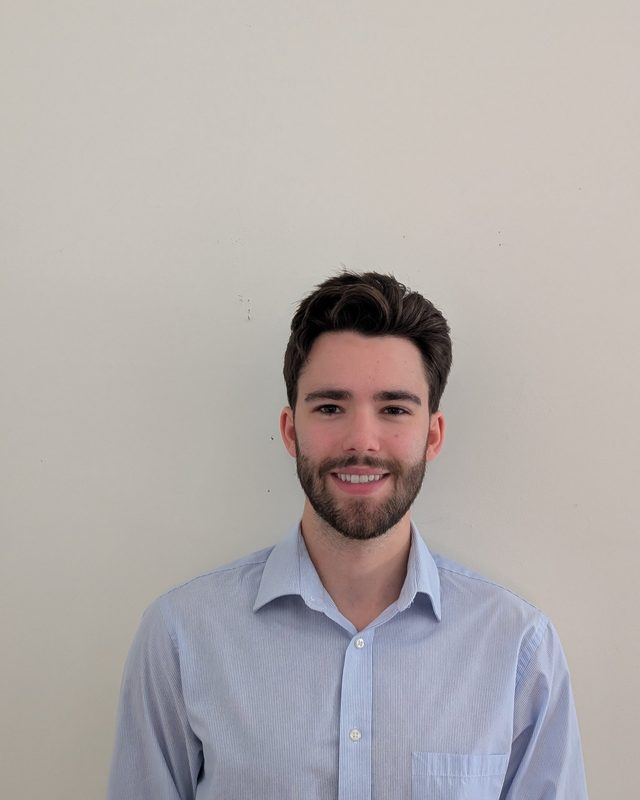
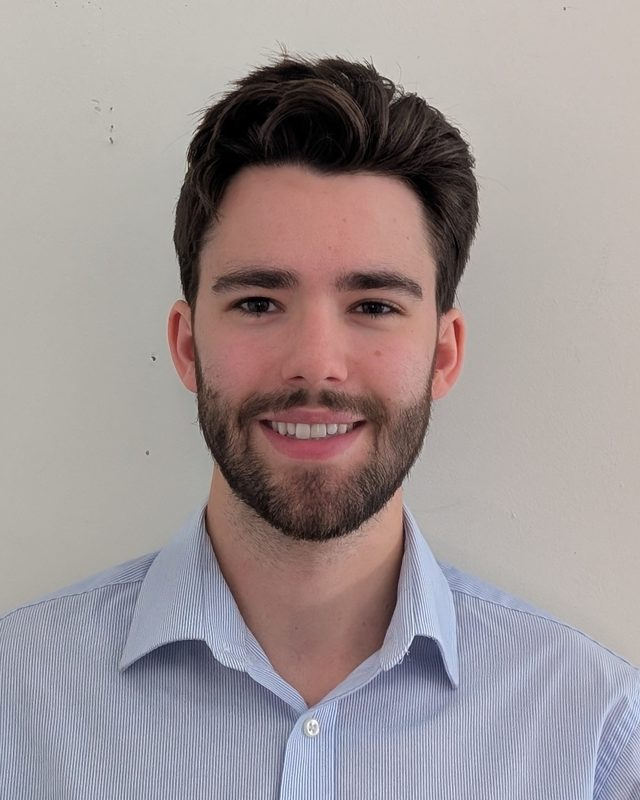
Add files via upload

diff --git a/alumni.html b/alumni.html
@@ -88,16 +88,17 @@
     <h2 class="group-label">Graduate students</h2>
     <ul class="alumni">
     <li class="alum">
-      <img src="img/alumni/leonie-van-de-wouw.jpg" alt="Portrait of Leonie Van de Wouw" width="88" height="88" loading="lazy">
-      <div>
-        <h3>Leonie Van de Wouw, PhD</h3>
-        <p class="with-us">PhD Chemistry</p>
-      </div>
-    </li>
-    <li class="alum">
       <img src="img/alumni/ricky-tran.jpg" alt="Portrait of Ricky Tran" width="88" height="88" loading="lazy">
       <div>
         <h3>Ricky Tran, PhD</h3>
+        <p class="with-us">PhD Chemistry</p>
+        <p class="now"><span>Now:</span> Postdoctoral Fellow, University of Victoria</p>
+      </div>
+    </li>
+    <li class="alum">
+      <img src="img/alumni/leonie-van-de-wouw.jpg" alt="Portrait of Leonie Van de Wouw" width="88" height="88" loading="lazy">
+      <div>
+        <h3>Leonie Van de Wouw, PhD</h3>
         <p class="with-us">PhD Chemistry</p>
       </div>
     </li>
@@ -165,10 +166,17 @@
     <h2 class="group-label">Undergraduate researchers</h2>
     <ul class="alumni">
     <li class="alum">
+      <img src="img/alumni/jagveer-kalkat.jpg" alt="Portrait of Jagveer Kalkat" width="88" height="88" loading="lazy">
+      <div>
+        <h3>Jagveer Kalkat</h3>
+        <p class="with-us">Undergraduate Honours Student (CHEM 502)</p>
+      </div>
+    </li>
+    <li class="alum">
       <img src="img/alumni/tanjot-saini.jpg" alt="Portrait of Tanjot Saini" width="88" height="88" loading="lazy">
       <div>
         <h3>Tanjot Saini</h3>
-        <p class="with-us">Undergraduate Research Student (CHEM 502)</p>
+        <p class="with-us">Undergraduate Honours Student (CHEM 502)</p>
       </div>
     </li>
     <li class="alum">
@@ -176,6 +184,20 @@
       <div>
         <h3>Hana Pham</h3>
         <p class="with-us">Undergraduate Research Student (CHEM 402)</p>
+      </div>
+    </li>
+    <li class="alum">
+      <img src="img/alumni/nirmayi-shravge.jpg" alt="Portrait of Nirmayi Shravge" width="88" height="88" loading="lazy">
+      <div>
+        <h3>Nirmayi Shravge</h3>
+        <p class="with-us">Undergraduate Honours Student (CHEM 502)</p>
+      </div>
+    </li>
+    <li class="alum">
+      <img src="img/alumni/eric-guzman.jpg" alt="Portrait of Eric Guzman" width="88" height="88" loading="lazy">
+      <div>
+        <h3>Eric Guzman</h3>
+        <p class="with-us">Undergraduate Student Intern</p>
       </div>
     </li>
     <li class="alum">
@@ -196,7 +218,7 @@
       <div class="mono" aria-hidden="true">XT</div>
       <div>
         <h3>Xavier Tang</h3>
-        <p class="with-us">Undergraduate Honours Student, 2018–2020</p>
+        <p class="with-us">Undergraduate Honours Student (CHEM 502), 2018–2020</p>
       </div>
     </li>
     <li class="alum">
@@ -257,7 +279,7 @@
       <div class="mono" aria-hidden="true">BB</div>
       <div>
         <h3>Beth Barretto</h3>
-        <p class="with-us">Undergraduate Honours Student, 2014</p>
+        <p class="with-us">Undergraduate Honours Student (CHEM 502), 2014</p>
         <p class="now"><span>Now:</span> Graduate school, Molecular Biology, University of Calgary (Grewal)</p>
       </div>
     </li>
@@ -265,7 +287,7 @@
       <div class="mono" aria-hidden="true">LB</div>
       <div>
         <h3>Laura Brothers</h3>
-        <p class="with-us">Undergraduate Honours Student, 2012</p>
+        <p class="with-us">Undergraduate Honours Student (CHEM 502), 2012</p>
         <p class="now"><span>Now:</span> Graduate school, Chemistry, McGill University (Bohle)</p>
       </div>
     </li>

diff --git a/our-team.html b/our-team.html
@@ -81,23 +81,25 @@
       <img src="img/team/connor-brandow.jpg" alt="Portrait of Connor Brandow" width="640" height="800" loading="lazy">
       <h4>Connor Brandow</h4>
       <p class="role">PhD Candidate</p>
-      <p class="detail">BSc, Saint Francis Xavier University, Antigonish, NS</p>
+      <p class="detail">BSc Honours Chemistry, St. Francis Xavier University</p>
     </article>
     <article class="person">
       <img src="img/team/joy-idowu.jpg" alt="Portrait of Joy Idowu" width="640" height="800" loading="lazy">
       <h4>Joy Idowu</h4>
       <p class="role">PhD Student</p>
-      <p class="detail">BSc, University of Calgary</p>
+      <p class="detail">BSc Honours Chemistry, University of Calgary</p>
     </article>
     <article class="person">
       <img src="img/team/sydney-palmer.jpg" alt="Portrait of Sydney Palmer" width="640" height="800" loading="lazy">
       <h4>Sydney Palmer</h4>
       <p class="role">MSc Student</p>
+      <p class="detail">BSc Honours Chemistry, St. Francis Xavier University</p>
     </article>
     <article class="person">
       <img src="img/team/massi-mirella.jpg" alt="Portrait of Massi Mirella" width="640" height="800" loading="lazy">
       <h4>Massi Mirella</h4>
       <p class="role">MSc Student</p>
+      <p class="detail">BSc Honours Chemistry, Carleton University</p>
     </article>
       </div>
     </div>
@@ -107,17 +109,12 @@
     <article class="person">
       <img src="img/team/nadah-hussein.jpg" alt="Portrait of Nadah Hussein" width="640" height="800" loading="lazy">
       <h4>Nadah Hussein</h4>
-      <p class="role">Undergraduate Research Student (CHEM 502)</p>
+      <p class="role">Undergraduate Honours Student (CHEM 502)</p>
     </article>
     <article class="person">
-      <img src="img/team/nirmayi-shravge.jpg" alt="Portrait of Nirmayi Shravge" width="640" height="800" loading="lazy">
-      <h4>Nirmayi Shravge</h4>
-      <p class="role">Undergraduate Honours Student</p>
-    </article>
-    <article class="person">
-      <img src="img/team/eric-guzman.jpg" alt="Portrait of Eric Guzman" width="640" height="800" loading="lazy">
-      <h4>Eric Guzman</h4>
-      <p class="role">Undergraduate Student Intern</p>
+      <img src="img/team/jamie-bull-weizel.jpg" alt="Portrait of Jamie Bull-Weizel" width="640" height="800" loading="lazy">
+      <h4>Jamie Bull-Weizel</h4>
+      <p class="role">Undergraduate Research Student (CHEM 402)</p>
     </article>
       </div>
     </div>
